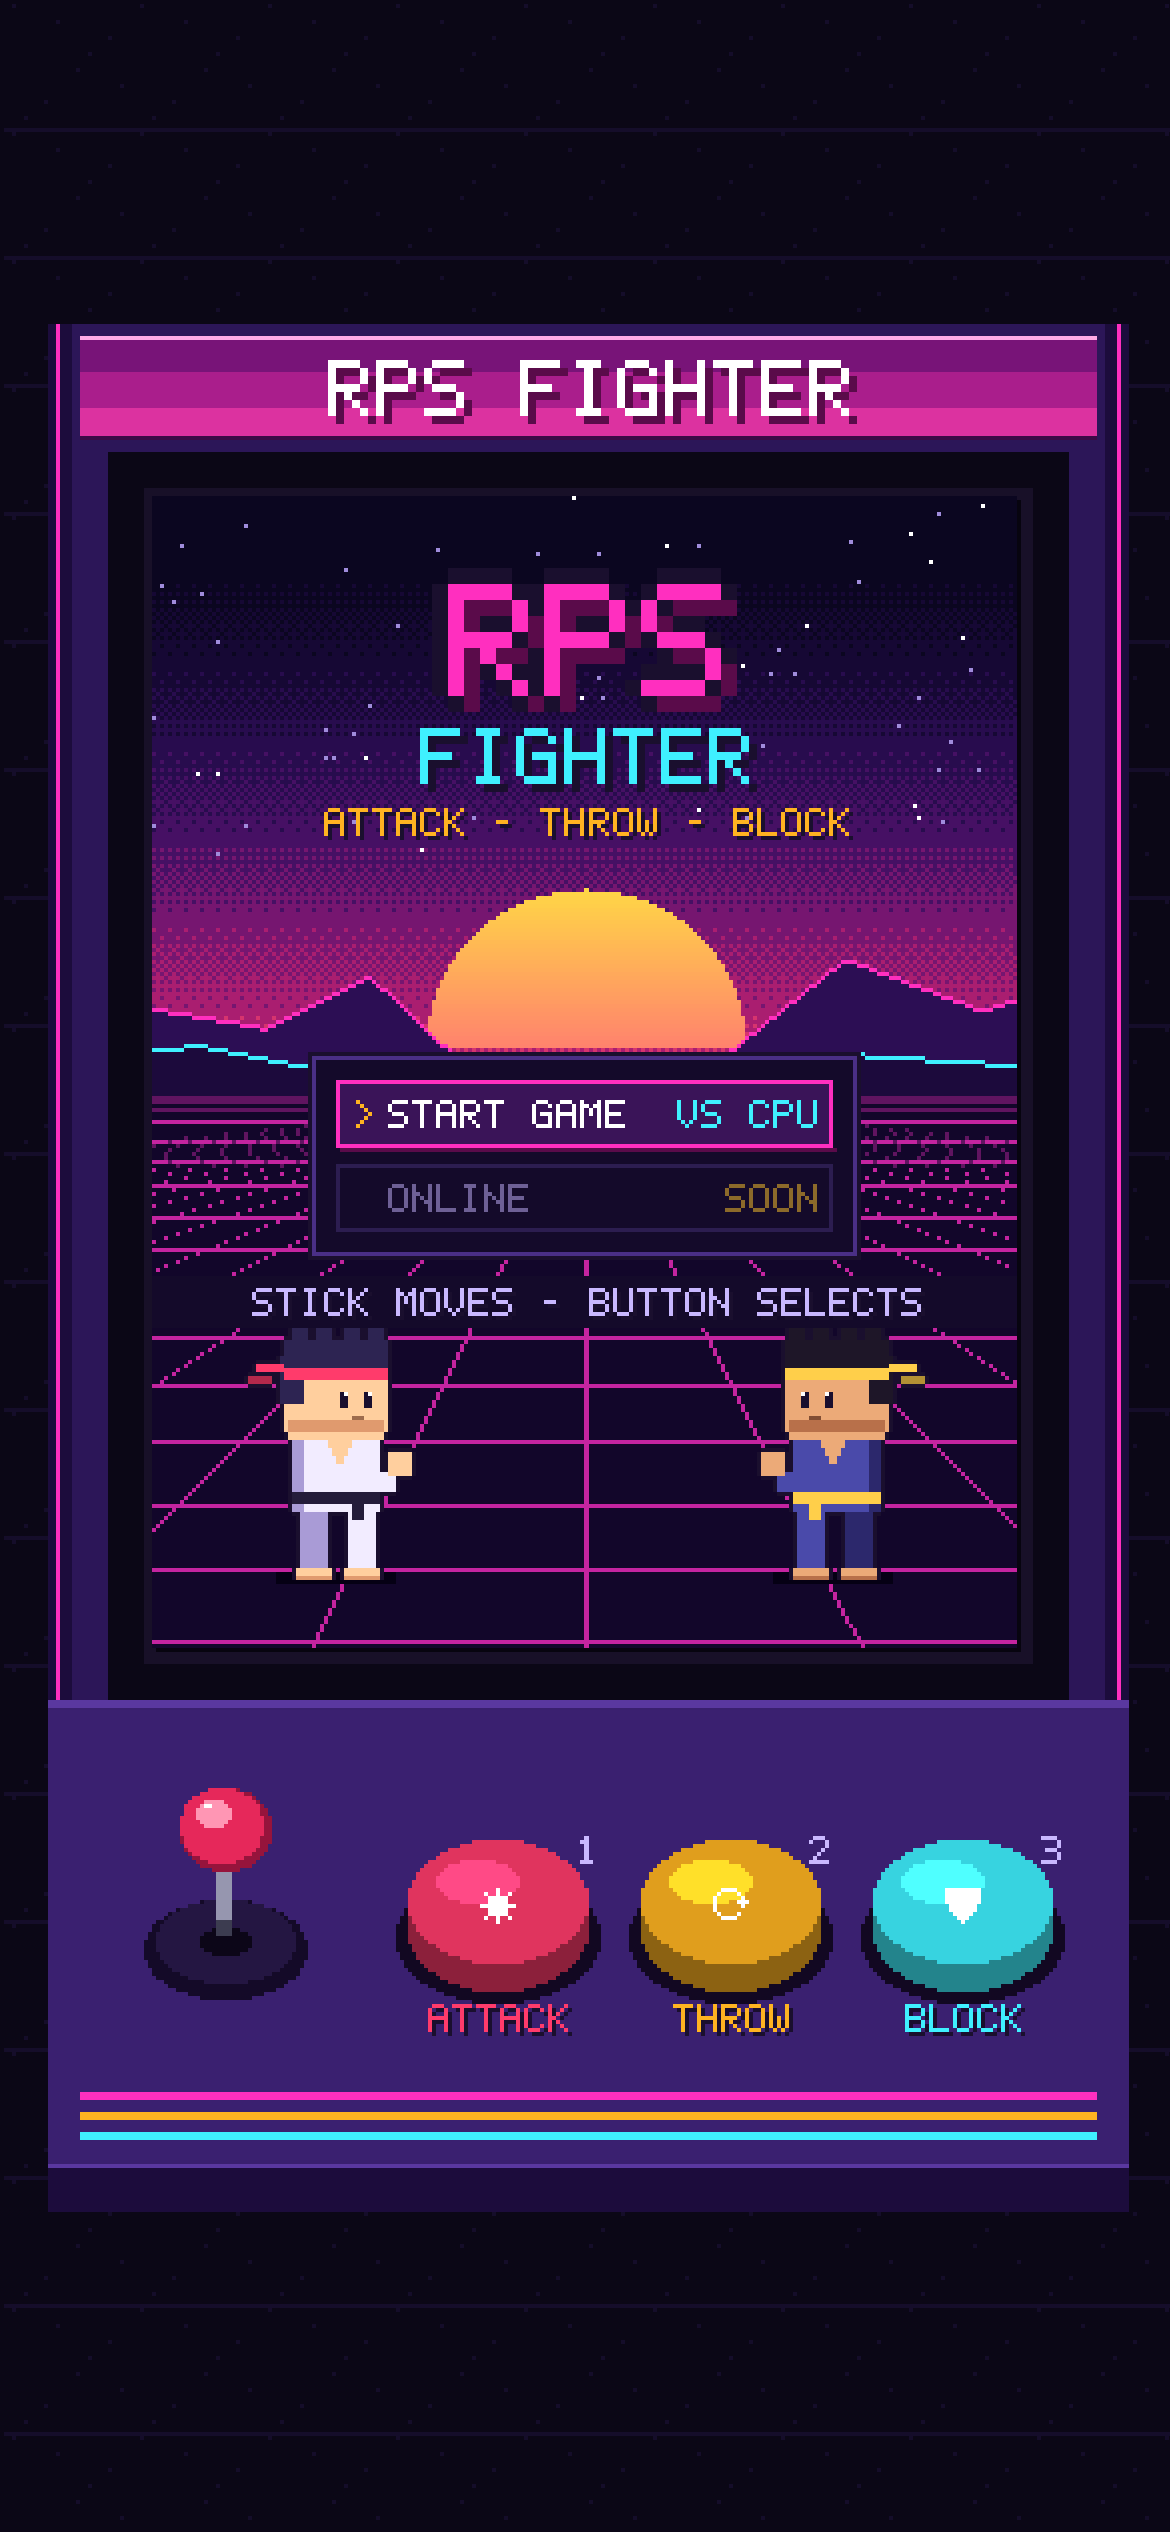
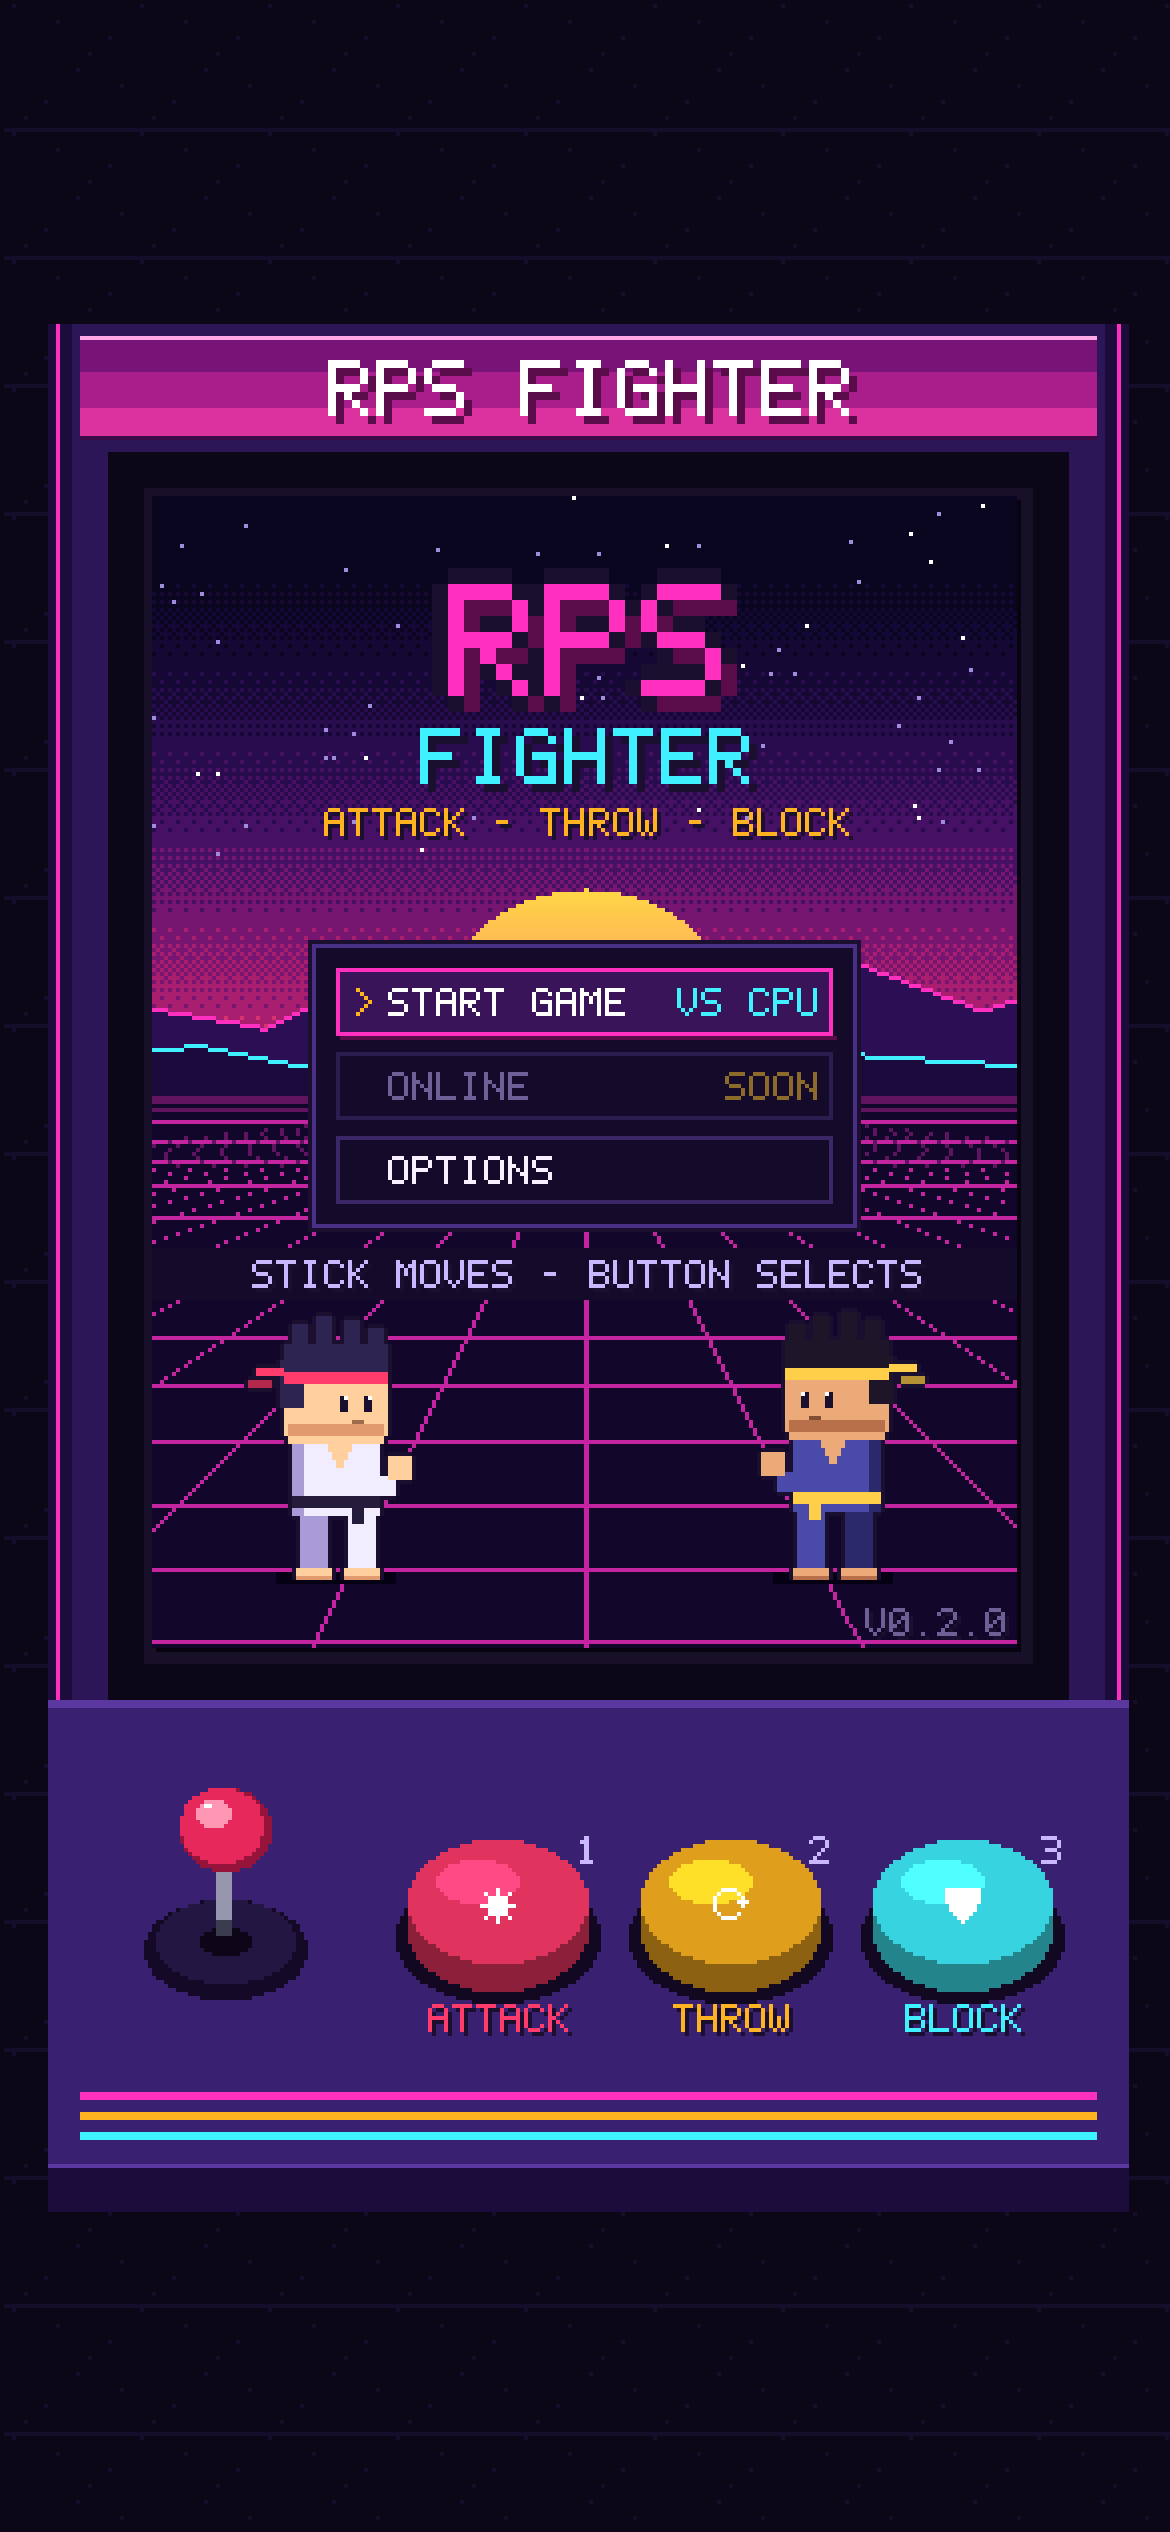
Retake the screenshots for v0.2.0 and link the online build
- Screenshots now show the OPTIONS item and the version label on Home
- README links the playable build on GitHub Pages near the top
- Design document captions mention Options; result alt text says 2-0

Claude-Session: https://claude.ai/code/session_01BvikswTRdkuZR9CqjiX7nh

Changed region(s): [[0.2154, 0.3432, 0.8, 0.5928], [0.8308, 0.624, 0.8615, 0.6552], [0.7385, 0.624, 0.7692, 0.6552]]

diff --git a/sources/design-doc/gdd.html b/sources/design-doc/gdd.html
@@ -238,8 +238,8 @@ footer { margin-top: 56px; padding-top: 18px; border-top: 2px solid var(--line);
   <div class="diagram"><img src="{{IMG}}architecture/diagrams/7-screen-flow.svg" alt="Screen flow: Boot, Logo intro, Home, Fight, Result; Retry goes back to Fight, Main menu goes back to Home; later screens hang off Home" width="1000" height="560"></div>
   <div class="figs">
     <figure><a href="{{IMG}}screenshots/phone-logo.png" target="_blank" rel="noopener"><img src="{{IMG}}screenshots/phone-logo.png" alt="Phone: placeholder studio logo on a black monitor" loading="lazy" width="1170" height="2532"></a><figcaption><b>Logo intro.</b> A placeholder "YOUR STUDIO" mark fades in, holds and fades out. Any button skips it.</figcaption></figure>
-    <figure><a href="{{IMG}}screenshots/phone-home.png" target="_blank" rel="noopener"><img src="{{IMG}}screenshots/phone-home.png" alt="Phone: home menu with Start game vs CPU and a greyed Online item" loading="lazy" width="1170" height="2532"></a><figcaption><b>Home.</b> Start game (vs CPU) is live; Online sits greyed out with "SOON" as the multiplayer slot.</figcaption></figure>
-    <figure><a href="{{IMG}}screenshots/phone-result.png" target="_blank" rel="noopener"><img src="{{IMG}}screenshots/phone-result.png" alt="Phone: result screen, You win 2-1, Retry and Main menu" loading="lazy" width="1170" height="2532"></a><figcaption><b>Result.</b> Winner and round score over the last fight frame, with Retry (selected first) and Main menu.</figcaption></figure>
+    <figure><a href="{{IMG}}screenshots/phone-home.png" target="_blank" rel="noopener"><img src="{{IMG}}screenshots/phone-home.png" alt="Phone: home menu with Start game vs CPU, a greyed Online item and Options" loading="lazy" width="1170" height="2532"></a><figcaption><b>Home.</b> Start game (vs CPU) is live, Online sits greyed out with "SOON" as the multiplayer slot, and Options holds the scaling setting. The version shows in the corner.</figcaption></figure>
+    <figure><a href="{{IMG}}screenshots/phone-result.png" target="_blank" rel="noopener"><img src="{{IMG}}screenshots/phone-result.png" alt="Phone: result screen, You win 2-0, Retry and Main menu" loading="lazy" width="1170" height="2532"></a><figcaption><b>Result.</b> Winner and round score over the last fight frame, with Retry (selected first) and Main menu.</figcaption></figure>
   </div>
   <div class="table-scroll"><table>
     <thead><tr><th>Screen</th><th>Shows</th><th>Options</th></tr></thead>

diff --git a/docs/design/interactive-gdd.html b/docs/design/interactive-gdd.html
@@ -238,8 +238,8 @@ footer { margin-top: 56px; padding-top: 18px; border-top: 2px solid var(--line);
   <div class="diagram"><img src="../architecture/diagrams/7-screen-flow.svg" alt="Screen flow: Boot, Logo intro, Home, Fight, Result; Retry goes back to Fight, Main menu goes back to Home; later screens hang off Home" width="1000" height="560"></div>
   <div class="figs">
     <figure><a href="../screenshots/phone-logo.png" target="_blank" rel="noopener"><img src="../screenshots/phone-logo.png" alt="Phone: placeholder studio logo on a black monitor" loading="lazy" width="1170" height="2532"></a><figcaption><b>Logo intro.</b> A placeholder "YOUR STUDIO" mark fades in, holds and fades out. Any button skips it.</figcaption></figure>
-    <figure><a href="../screenshots/phone-home.png" target="_blank" rel="noopener"><img src="../screenshots/phone-home.png" alt="Phone: home menu with Start game vs CPU and a greyed Online item" loading="lazy" width="1170" height="2532"></a><figcaption><b>Home.</b> Start game (vs CPU) is live; Online sits greyed out with "SOON" as the multiplayer slot.</figcaption></figure>
-    <figure><a href="../screenshots/phone-result.png" target="_blank" rel="noopener"><img src="../screenshots/phone-result.png" alt="Phone: result screen, You win 2-1, Retry and Main menu" loading="lazy" width="1170" height="2532"></a><figcaption><b>Result.</b> Winner and round score over the last fight frame, with Retry (selected first) and Main menu.</figcaption></figure>
+    <figure><a href="../screenshots/phone-home.png" target="_blank" rel="noopener"><img src="../screenshots/phone-home.png" alt="Phone: home menu with Start game vs CPU, a greyed Online item and Options" loading="lazy" width="1170" height="2532"></a><figcaption><b>Home.</b> Start game (vs CPU) is live, Online sits greyed out with "SOON" as the multiplayer slot, and Options holds the scaling setting. The version shows in the corner.</figcaption></figure>
+    <figure><a href="../screenshots/phone-result.png" target="_blank" rel="noopener"><img src="../screenshots/phone-result.png" alt="Phone: result screen, You win 2-0, Retry and Main menu" loading="lazy" width="1170" height="2532"></a><figcaption><b>Result.</b> Winner and round score over the last fight frame, with Retry (selected first) and Main menu.</figcaption></figure>
   </div>
   <div class="table-scroll"><table>
     <thead><tr><th>Screen</th><th>Shows</th><th>Options</th></tr></thead>

diff --git a/README.md b/README.md
@@ -2,11 +2,13 @@
 
 A pixel-art fighting game built on rock paper scissors, played in the browser.
 
+**[▶ Play it in your browser](https://robinneefs.github.io/RPS-Fighter/)** on desktop or on a phone held upright, no install needed.
+
 Two fighters face off inside an arcade cabinet. Each exchange, both players secretly pick **Attack**, **Throw** or **Block** before a 5 second countdown runs out. The picks are revealed together, the fighters act out their moves, and the loser of the exchange takes damage. Best of three rounds.
 
 ![The game in a desktop browser: picking a move with 3 seconds left](docs/screenshots/browser-pick.png)
 
-> **Status: first playable.** Logo intro, home menu, a full best-of-three match against a random CPU and the Retry / Main menu screen work, with placeholder art. Final fighter art, effects and sound come next.
+> **Status: first playable (v0.2.0).** Logo intro, home menu with Options, a full best-of-three match against a random CPU and the Retry / Main menu screen work, with placeholder art. Final fighter art, effects and sound come next.
 
 | Logo intro | Home | Fight | Result |
 |---|---|---|---|
